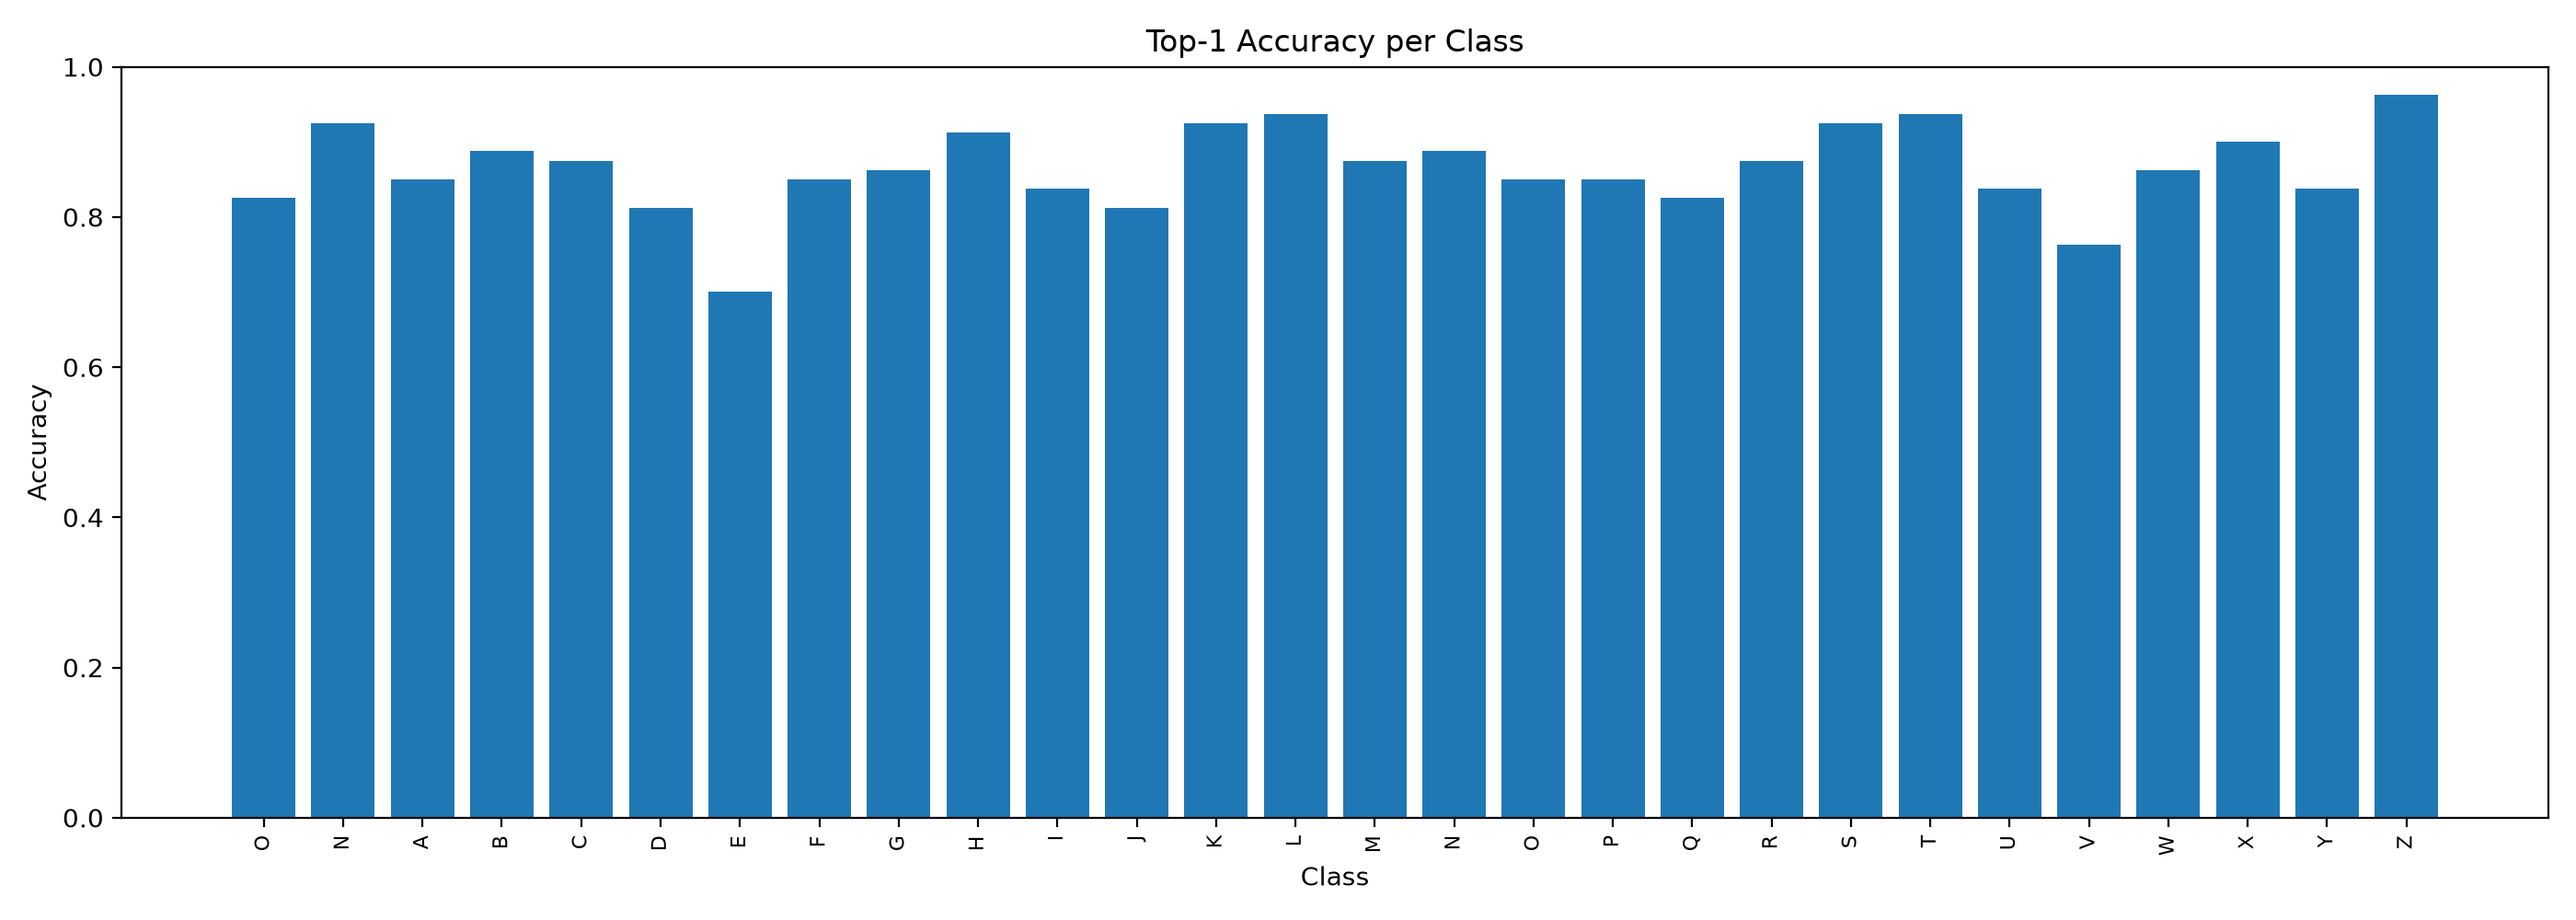
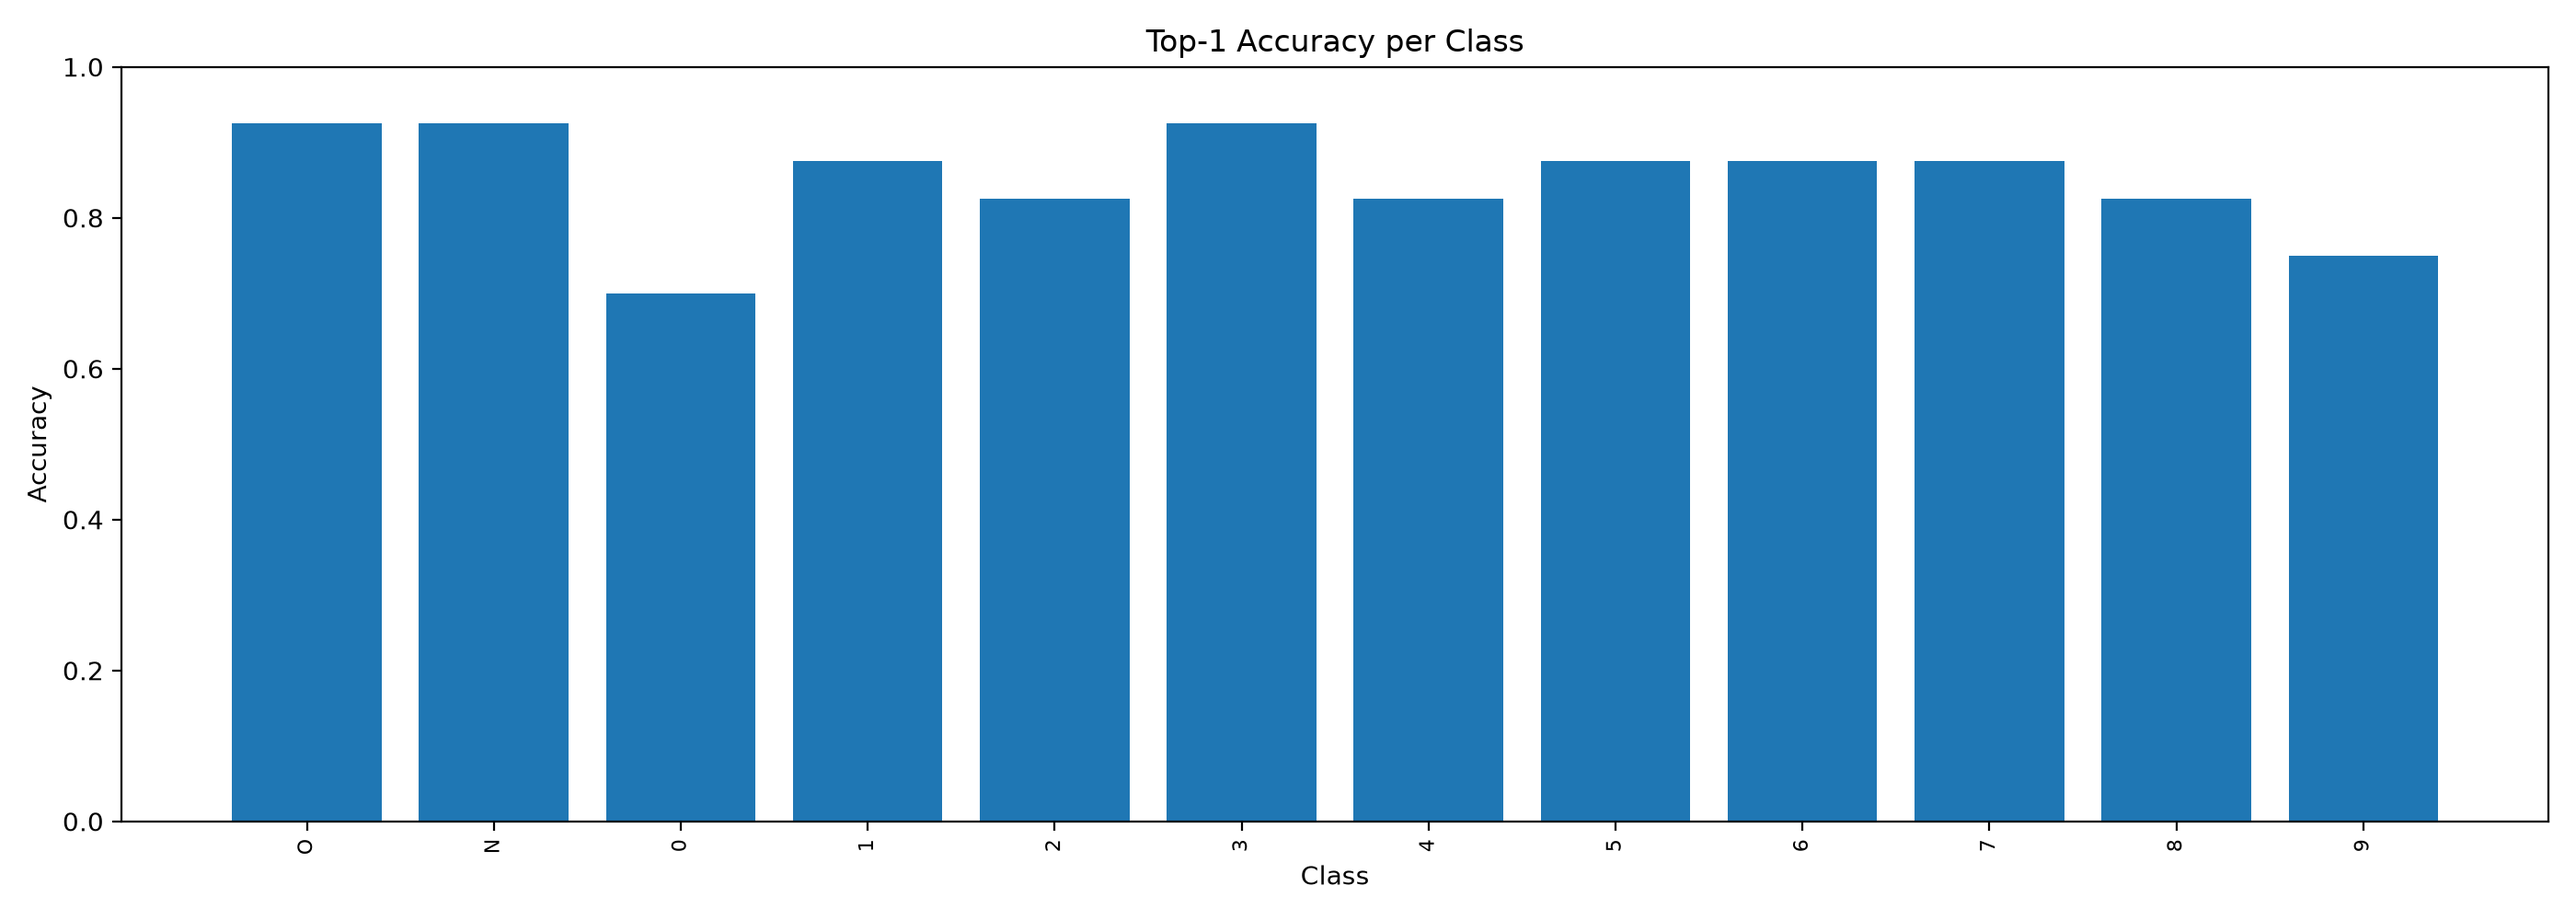
backbone-12 classes 84%

diff --git a/src/airletters/pipelines/train.py b/src/airletters/pipelines/train.py
@@ -26,7 +26,7 @@ from airletters.utils.train_eval import evaluate, train_one_epoch
 
 def parse_args() -> argparse.Namespace:
     parser = argparse.ArgumentParser(description="Train CNN+BiLSTM on AirLetters")
-    parser.add_argument("--config", default="configs/letters.yaml", help="Path to a YAML config file.")
+    parser.add_argument("--config", default="configs/digits.yaml", help="Path to a YAML config file.")
     parser.add_argument("--epochs", type=int, default=None, help="Override number of training epochs.")
     parser.add_argument("--resume", default=None, help="Path to a checkpoint to resume training from.")
     parser.add_argument("--max-train-batches", type=int, default=None, help="Limit train batches for smoke tests.")

diff --git a/src/airletters/pipelines/evaluate.py b/src/airletters/pipelines/evaluate.py
@@ -25,7 +25,7 @@ from airletters.utils.train_eval import evaluate
 
 def parse_args() -> argparse.Namespace:
     parser = argparse.ArgumentParser(description="Evaluate CNN+BiLSTM on AirLetters")
-    parser.add_argument("--config", default="configs/letters.yaml", help="Path to a YAML config file.")
+    parser.add_argument("--config", default="configs/digits.yaml", help="Path to a YAML config file.")
     parser.add_argument("--checkpoint", default="checkpoints/best.pt", help="Path to a trained checkpoint.")
     parser.add_argument("--split", default="val", choices=("val", "test"), help="Split to evaluate.")
     parser.add_argument("--max-batches", type=int, default=None, help="Limit batches for smoke tests.")

diff --git a/gen_test_plots.py b/gen_test_plots.py
@@ -18,7 +18,7 @@ if __name__ == '__main__':
     from airletters.utils.train_eval import evaluate
     from airletters.utils.plots import save_evaluation_plots
 
-    config = load_config('configs/letters.yaml')
+    config = load_config('configs/digits.yaml')
     device = torch.device('cuda' if torch.cuda.is_available() else 'cpu')
     print(f'Using device: {device}')
 
